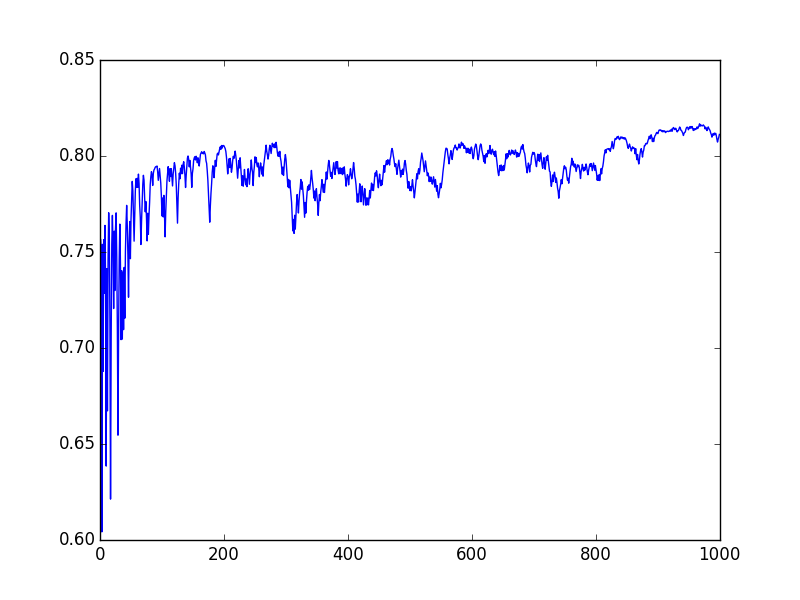
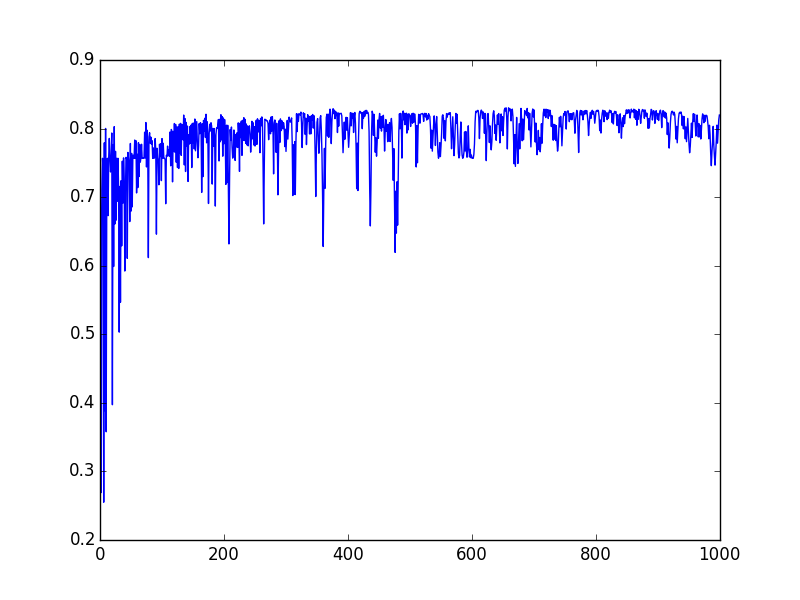
add option to sum as comparable to perceptron

Changed region(s): [[0.0625, 0.18, 0.9062, 0.84], [0.0625, 0.87, 0.125, 0.93], [0.0625, 0.09, 0.125, 0.12]]

diff --git a/perceptron-svm/svm.py b/perceptron-svm/svm.py
@@ -1,12 +1,12 @@
-import numpy as np
 from __future__ import print_function
+import numpy as np
 import sys
 import time
 from random import randint
 import argparse
 import matplotlib
 #plot without X window
-matplotlib.use('Agg')
+#matplotlib.use('Agg')
 import matplotlib.pyplot as plt
 from multiprocessing import Process, Array, Value
 
@@ -31,6 +31,8 @@ def readData(file, nfeat):
 
 def train(X, y, c):
     global n_iteration
+    global acc_arr_single_c
+    global args
 
     w = np.zeros(X.shape[1])
     b = 0
@@ -51,13 +53,23 @@ def train(X, y, c):
             b += 1/it * c * y[n]
 
             acc = predict(w, b, X, y)
+
+            if args.c:  # single c
+                acc_arr_single_c.append(acc)
+                print('Training...%d/%d\tTrain accuracy %f' % (it, n_iteration, acc), end='\r')
+
+            # update max acc
             if acc > max_acc:
                 max_acc = acc
                 best_w = w
                 best_b = b
+
+
         else:
             w -= 1/it * w
 
+    if args.c:
+        print('\nMax train accuracy\t%f' % (max_acc))
     return (best_w, best_b)
 
 
@@ -94,7 +106,7 @@ def testC(pid, c_arr, acc_arr, X_t, y_t, X_d, y_d, done):
         acc_arr[i] = predict(w, b, X_d, y_d)
 
         done.value += 1
-        print('testing C... %d/%d' % (done.value, n_c), end='\r')
+        print('testing C...%d/%d' % (done.value, n_c), end='\r')
 
         i += n_process
 
@@ -105,102 +117,126 @@ if __name__ == '__main__':
 
     start_time = time.time()
 
-
-    # read arguments
-    parser = argparse.ArgumentParser()
-    parser.add_argument('-i', '--iterations', type=int, help='Number of iterations, default = 100')
-    parser.add_argument('-p', '--processes', type=int,  help='Number of processes, default = 1')
-    parser.add_argument('-cm', '--min_c', type=float, help='Minimum C, default = 1.0')
-    parser.add_argument('-cx', '--max_c', type=float, help='Maximum C, default = 1000.0')
-    parser.add_argument('-s', '--step_length', type=float, help='Step length of C, default = 1.0')
-    args = parser.parse_args()
-
-
-
-    if args.iterations:
-        n_iteration = int(args.iterations)
-    else:
-        n_iteration = 100
-    if args.min_c:
-        min_c = float(args.min_c)
-    else:
-        min_c = 1.0
-    if args.max_c:
-        max_c = float(args.max_c)
-    else:
-        max_c = 1000.0
-    if args.processes:
-        n_process = int(args.processes)
-    else:
-        n_process = 1
-    if args.step_length:
-        step_len = float(args.step_length)
-    else:
-        step_len = 1.0
-
-
-
-
-    n_c = int((max_c - min_c) / step_len) + 1
-    done = Value('i', 0)
-    c_arr = Array('d', n_c)
-    for i in range(n_c):
-        c_arr[i] = min_c + step_len * i
-    acc_arr = Array('d', n_c)
-
-
-
-
     # read data
     X_t, y_t = readData('a7a.train', 123)
     X_d, y_d = readData('a7a.dev', 123)
     X_p, y_p = readData('a7a.test', 123)
 
 
+    # read arguments
+    parser = argparse.ArgumentParser()
+    parser.add_argument('-c', type=float,  help='Value of C, if you want to see movement of accuracy over iterations on single C value')
+    parser.add_argument('-cm', '--min_c', type=float, help='Minimum value of C, default = 1.0')
+    parser.add_argument('-cx', '--max_c', type=float, help='Maximum value of C, default = 100.0')
+    parser.add_argument('-s', '--step_length', type=float, help='Step length of C, default = 1.0')
+    parser.add_argument('-p', '--processes', type=int,  help='Number of processes, default = 1')
+    parser.add_argument('-i', '--iterations', type=int, help='Number of iterations, default = 100')
+    args = parser.parse_args()
 
 
-    # launch processe
-    p_arr = []
-    for pid in range(n_process):
-        p = Process(target=testC, args=(pid, c_arr, acc_arr, X_t, y_t, X_d, y_d, done))
-        p_arr.append(p)
-        p.start()
-
-    # join processe
-    for p in p_arr:
-        p.join()
-
-
-
-
-
-    # get best C and accuracy
-    best_c = c_arr[0]
-    max_acc = acc_arr[0]
-    for i in range(n_c):
-        if acc_arr[i] > max_acc:
-            max_acc = acc_arr[i]
-            best_c = c_arr[i]
+    if args.iterations:
+        n_iteration = int(args.iterations)
+    else:
+        n_iteration = 100
 
 
 
 
-    # predict test data
-    w, b = train(X_t, y_t, best_c)
-    acc = predict(w, b, X_p, y_p)
+    # test accuracy move on single c value
+    if args.c:
 
-    print('\nBest C %.3f\nMax dev accuracy %f\nTest accuracy %f' % (best_c, max_acc, acc))
+        c = float(args.c)
+        acc_arr_single_c = []
+
+        # train
+        w, b = train(X_t, y_t, c)
+
+        # predict
+        print('Test accuracy\t\t%f' % predict(w, b, X_p, y_p))
+
+
+        end_time = time.time()
+        print('%f seconds' % (end_time - start_time))
+
+        plt.plot(acc_arr_single_c)
+        plt.savefig('accuracy')
+        plt.show()
+
+
+    # test accuracy vs. c values
+    else:
+
+        if args.min_c:
+            min_c = float(args.min_c)
+        else:
+            min_c = 1.0
+
+        if args.max_c:
+            max_c = float(args.max_c)
+        else:
+            max_c = 100.0
+
+        if args.processes:
+            n_process = int(args.processes)
+        else:
+            n_process = 1
+
+        if args.step_length:
+            step_len = float(args.step_length)
+        else:
+            step_len = 1.0
+
+
+        n_c = int((max_c - min_c) / step_len) + 1
+        done = Value('i', 0)
+        c_arr = Array('d', n_c)
+        for i in range(n_c):
+            c_arr[i] = min_c + step_len * i
+        acc_arr = Array('d', n_c)
 
 
 
+        # launch processe
+        p_arr = []
+        for pid in range(n_process):
+            p = Process(target=testC, args=(pid, c_arr, acc_arr, X_t, y_t, X_d, y_d, done))
+            p_arr.append(p)
+            p.start()
 
-    end_time = time.time()
-    print('%f seconds' % (end_time - start_time))
+        # join processe
+        for p in p_arr:
+            p.join()
 
-    # plot
-    plt.plot(c_arr, acc_arr)
-    plt.show()
-    plt.savefig('c-acc')
+
+
+        # get best/worst C and accuracy
+        best_c = c_arr[0]
+        worst_c = c_arr[0]
+        max_acc = acc_arr[0]
+        min_acc = acc_arr[0]
+        for i in range(n_c):
+            if acc_arr[i] > max_acc:
+                max_acc = acc_arr[i]
+                best_c = c_arr[i]
+            if acc_arr[i] < min_acc:
+                min_acc = acc_arr[i]
+                worst_c = c_arr[i]
+
+
+        # predict test data
+        w, b = train(X_t, y_t, best_c)
+        acc = predict(w, b, X_p, y_p)
+
+        print('\nBest C value\t\t%.3f\nMax dev accuracy\t%f\nWorst C value\t\t%.3f\nMin dev accuracy\t%f\nTest accuracy\t\t%f' % (best_c, max_acc, worst_c, min_acc, acc))
+
+
+        end_time = time.time()
+        print('%f seconds' % (end_time - start_time))
+
+        # plot
+        plt.plot(c_arr, acc_arr)
+        plt.show()
+        plt.savefig('c-accuracy')
 
 
 

diff --git a/perceptron-svm/perceptron.py b/perceptron-svm/perceptron.py
@@ -1,12 +1,12 @@
-import numpy as np
 from __future__ import print_function
+import numpy as np
 import sys
 import time
 from random import randint
 import argparse
 import matplotlib
 #plot without X window
-matplotlib.use('Agg')
+#matplotlib.use('Agg')
 import matplotlib.pyplot as plt
 
 
@@ -57,6 +57,7 @@ def train(X, y):
                 max_acc = acc
                 best_w = w
 
+    print('\nMax train accuracy %f' % (max_acc))
     return best_w
 
 
@@ -113,7 +114,7 @@ if __name__ == '__main__':
     w = train(X_t, y_t)
 
     # predict
-    print('\nTest accuracy\t%f' % predict(w, X_p, y_p))
+    print('Test accuracy\t%f' % predict(w, X_p, y_p))
 
 
     end_time = time.time()
